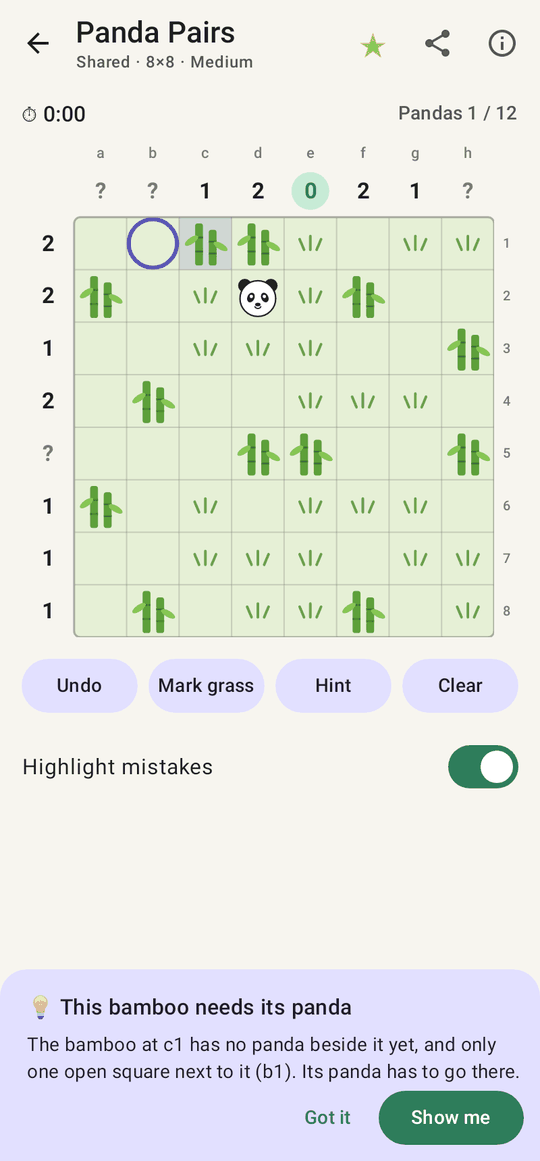
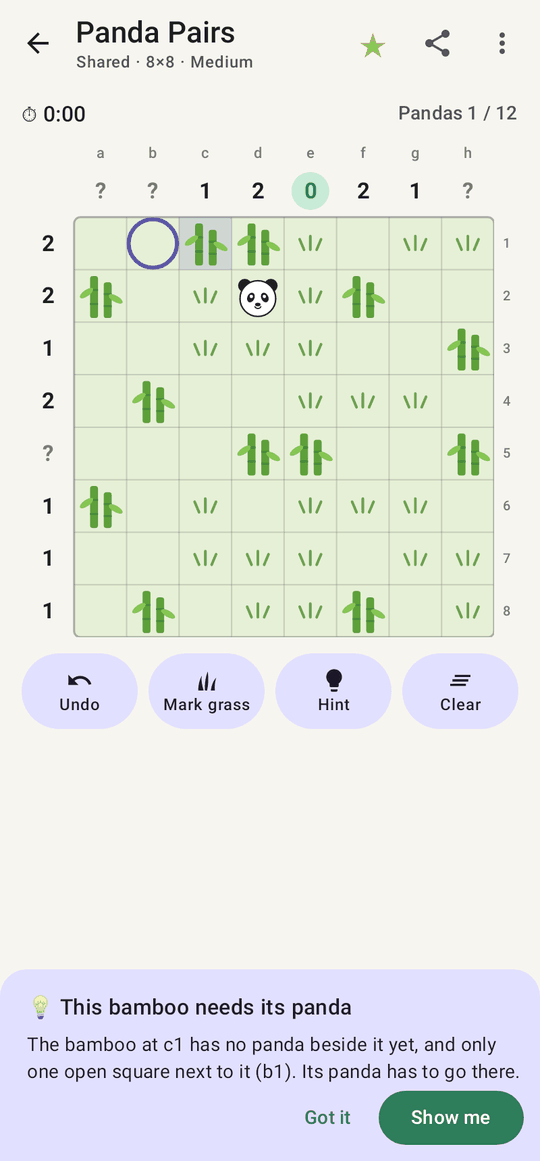
Guide for 1.13.0: unlocking levels, phone-shaped boards, puzzle menu, daily hints
Claude-Session: https://claude.ai/code/session_016Z8Mn8awnLpuJzFTS8oQNa

diff --git a/docs/using-the-app.md b/docs/using-the-app.md
@@ -4,7 +4,8 @@
 
 <img src="images/home.png" width="280" alt="Home screen"> <img src="images/home_dark.png" width="280" alt="Home screen in dark mode">
 
-Every puzzle is listed with its daily-puzzle status and your streak. Tap ☆ to make a puzzle a
+Every puzzle is listed with its daily-puzzle status, your streak and how many of its levels you've
+unlocked (see [Unlocking levels](#unlocking-levels)). Tap ☆ to make a puzzle a
 favourite (the same star is on each puzzle's menu and at the top of its play screen): favourites are listed first. The button next to the profile icon switches between a list and
 big tiles.
 
@@ -24,9 +25,20 @@ Tap a puzzle to see:
   bigger and harder at the weekend. Solve at least one puzzle of a game each day to keep its 🔥 streak.
 - **New puzzle:** choose a board **size** and a **difficulty** (Easy, Medium or Hard; Link Up also has
   Expert), then **Play**. Your choice is remembered. Harder doesn't just mean bigger: hard puzzles need
-  deeper reasoning, while easy ones can be solved one simple step at a time.
+  deeper reasoning, while easy ones can be solved one simple step at a time. Many puzzles come in
+  phone-shaped sizes too (like 7×11), which fill the screen better than square boards. Sizes are listed
+  from smallest to largest; locked ones show a 🔒 and the Play button says what opens them.
+- **Highlight mistakes:** whether this puzzle marks broken rules in red (also in the ⋮ menu while you play).
 - **History & best times:** your best time for every size and difficulty, and every puzzle you've solved.
 - **🎓** at the top opens the tutorial, and **ⓘ** shows the rules.
+
+### Unlocking levels
+
+Each puzzle starts with its smallest Easy board. Solve 3 puzzles at a level to open the next difficulty
+at that size and the next size up at that difficulty. Every solve counts, daily puzzles and puzzles from
+friends included, and levels you've already played stay open. When a solve opens something new, the
+finishing screen offers to play it straight away. Daily and shared puzzles can always be played. Rather
+skip it? **Unlock every size and difficulty** in Profile & settings opens everything.
 
 <img src="images/history.png" width="280" alt="History and best times">
 
@@ -35,8 +47,9 @@ Tap a puzzle to see:
 <img src="images/play_sudoku.png" width="280" alt="Sudoku with a hint">
 
 The timer runs while you play and pauses when you leave the app. Most puzzles mark broken rules in red
-(two equal numbers in a row, an over-full clue, a 2×2 pool…); the **Highlight mistakes** switch under the
-board turns this off if you'd rather find them yourself. It's remembered for each puzzle. **Undo** takes back your last move.
+(two equal numbers in a row, an over-full clue, a 2×2 pool…); turn **Highlight mistakes** off in the ⋮
+puzzle menu (or on the puzzle's menu) if you'd rather find them yourself. It's remembered for each puzzle.
+The ⋮ menu also has **How to play**. **Undo** takes back your last move.
 Letters along the top and numbers down the side name every square, like a chessboard: hints say things
 like "the 2 at h6".
 
@@ -53,7 +66,8 @@ Stuck? Tap **Hint**. Hints don't just reveal an answer: they explain the next lo
 squares involved, and offer **Show me** to make the move for you. If you've made a mistake, the hint
 points it out first.
 
-After you use a hint, the Hint button recharges for 10 seconds (it shows a countdown). Solves that used
+Daily puzzles have no hints: everyone's daily time is their own. After you use a hint, the Hint button
+recharges for 10 seconds (it shows a countdown). Solves that used
 hints are marked "with hints" and don't count for best times.
 
 In Minesweeper, if you open a mine, the game shows the step the numbers offered instead.
@@ -93,6 +107,7 @@ The profile button at the top right of the home screen shows your overall stats,
   - **Paper cut**: layers of cut paper with soft shadows
   - **Watercolour**: soft washes of paint on textured paper
 - **Light or dark:** System, Light or Dark (Neon and Chalkboard are always dark, Watercolour always light)
+- **Puzzles:** **Unlock every size and difficulty** skips the unlock path
 - **Home screen:** list or tiles
 
 <img src="images/themes.png" width="640" alt="Star Battle in all ten themes">

diff --git a/docs/puzzles/minesweeper.md b/docs/puzzles/minesweeper.md
@@ -16,7 +16,7 @@ Big boards scroll: drag to move around, and pinch or use − / + to zoom. On the
 
 ## Sizes and difficulty
 
-Board sizes: 8×8, 10×10, 12×12, 16×16, 16×30, 30×30, 50×50. Difficulty: Easy, Medium, Hard. The daily puzzle is small and easy early in the week and bigger and harder at the weekend.
+Board sizes: 8×8, 10×10, 12×12, 16×16, 16×30, 30×30, 50×50, 9×14, 12×20. Difficulty: Easy, Medium, Hard. The daily puzzle is small and easy early in the week and bigger and harder at the weekend.
 
 ## Learn to play
 

diff --git a/docs/puzzles/linkup.md b/docs/puzzles/linkup.md
@@ -18,7 +18,7 @@ Drag from a number to draw its line. Drag back along a line to shorten it, or ta
 
 ## Sizes and difficulty
 
-Board sizes: 5×5, 7×7, 9×9. Difficulty: Easy, Medium, Hard, Expert. The daily puzzle is small and easy early in the week and bigger and harder at the weekend.
+Board sizes: 5×5, 7×7, 9×9, 5×8, 7×11, 9×13. Difficulty: Easy, Medium, Hard, Expert. The daily puzzle is small and easy early in the week and bigger and harder at the weekend.
 
 ## Learn to play
 

diff --git a/docs/puzzles/pipes.md b/docs/puzzles/pipes.md
@@ -16,7 +16,7 @@ Tap a tile to turn it a quarter turn clockwise. Press and hold a tile to lock it
 
 ## Sizes and difficulty
 
-Board sizes: 5×5, 7×7, 9×9, 11×11. Difficulty: Easy, Medium, Hard. The daily puzzle is small and easy early in the week and bigger and harder at the weekend.
+Board sizes: 5×5, 7×7, 9×9, 11×11, 5×8, 7×11, 9×14. Difficulty: Easy, Medium, Hard. The daily puzzle is small and easy early in the week and bigger and harder at the weekend.
 
 ## Learn to play
 

diff --git a/docs/puzzles/islands.md b/docs/puzzles/islands.md
@@ -20,7 +20,7 @@ Tap a square once to shade it as sea, again to mark it as island with a dot, and
 
 ## Sizes and difficulty
 
-Board sizes: 6×6, 8×8, 10×10, 12×12. Difficulty: Easy, Medium, Hard. The daily puzzle is small and easy early in the week and bigger and harder at the weekend.
+Board sizes: 6×6, 8×8, 10×10, 12×12, 6×9, 8×12. Difficulty: Easy, Medium, Hard. The daily puzzle is small and easy early in the week and bigger and harder at the weekend.
 
 ## Learn to play
 

diff --git a/docs/puzzles/panda.md b/docs/puzzles/panda.md
@@ -16,7 +16,7 @@ Tap a square once to mark it as grass (definitely empty), tap again for a panda,
 
 ## Sizes and difficulty
 
-Board sizes: 6×6, 8×8, 10×10, 12×12. Difficulty: Easy, Medium, Hard. The daily puzzle is small and easy early in the week and bigger and harder at the weekend.
+Board sizes: 6×6, 8×8, 10×10, 12×12, 6×9, 8×12. Difficulty: Easy, Medium, Hard. The daily puzzle is small and easy early in the week and bigger and harder at the weekend.
 
 ## Learn to play
 

diff --git a/docs/puzzles/pearls.md b/docs/puzzles/pearls.md
@@ -18,7 +18,7 @@ Drag across the squares to draw the loop; drag back to take back the last step, 
 
 ## Sizes and difficulty
 
-Board sizes: 6×6, 8×8, 10×10, 12×12. Difficulty: Easy, Medium, Hard. The daily puzzle is small and easy early in the week and bigger and harder at the weekend.
+Board sizes: 6×6, 8×8, 10×10, 12×12, 6×9, 8×12. Difficulty: Easy, Medium, Hard. The daily puzzle is small and easy early in the week and bigger and harder at the weekend.
 
 ## Learn to play
 

diff --git a/docs/puzzles/trail.md b/docs/puzzles/trail.md
@@ -14,7 +14,7 @@ Drag from 1 to draw. Drag back along the path to undo steps, or touch any square
 
 ## Sizes and difficulty
 
-Board sizes: 5×5, 6×6, 7×7, 8×8. Difficulty: Easy, Medium, Hard. The daily puzzle is small and easy early in the week and bigger and harder at the weekend.
+Board sizes: 5×5, 6×6, 7×7, 8×8, 5×7, 6×9. Difficulty: Easy, Medium, Hard. The daily puzzle is small and easy early in the week and bigger and harder at the weekend.
 
 ## Learn to play
 

diff --git a/docs/puzzles/lightup.md b/docs/puzzles/lightup.md
@@ -18,7 +18,7 @@ Tap a square once to mark it as empty (a dot), again for a bulb, and once more t
 
 ## Sizes and difficulty
 
-Board sizes: 7×7, 10×10, 12×12. Difficulty: Easy, Medium, Hard. The daily puzzle is small and easy early in the week and bigger and harder at the weekend.
+Board sizes: 7×7, 10×10, 12×12, 7×10, 10×14. Difficulty: Easy, Medium, Hard. The daily puzzle is small and easy early in the week and bigger and harder at the weekend.
 
 ## Learn to play
 

diff --git a/docs/puzzles/bridges.md b/docs/puzzles/bridges.md
@@ -16,7 +16,7 @@ Drag from one island toward a neighbouring island to add a bridge; do it again f
 
 ## Sizes and difficulty
 
-Board sizes: 7×7, 9×9, 12×12. Difficulty: Easy, Medium, Hard. The daily puzzle is small and easy early in the week and bigger and harder at the weekend.
+Board sizes: 7×7, 9×9, 12×12, 7×10, 9×13. Difficulty: Easy, Medium, Hard. The daily puzzle is small and easy early in the week and bigger and harder at the weekend.
 
 ## Learn to play
 

diff --git a/docs/puzzles/rectangles.md b/docs/puzzles/rectangles.md
@@ -16,7 +16,7 @@ Drag from one corner to the opposite corner to draw a rectangle. Tap a rectangle
 
 ## Sizes and difficulty
 
-Board sizes: 6×6, 9×9, 12×12. Difficulty: Easy, Medium, Hard. The daily puzzle is small and easy early in the week and bigger and harder at the weekend.
+Board sizes: 6×6, 9×9, 12×12, 6×9, 9×13. Difficulty: Easy, Medium, Hard. The daily puzzle is small and easy early in the week and bigger and harder at the weekend.
 
 ## Learn to play
 

diff --git a/docs/puzzles/slitherlink.md b/docs/puzzles/slitherlink.md
@@ -18,7 +18,7 @@ Tap between two dots to draw a line, tap again to cross it out (definitely not u
 
 ## Sizes and difficulty
 
-Board sizes: 5×5, 7×7, 10×10. Difficulty: Easy, Medium, Hard. The daily puzzle is small and easy early in the week and bigger and harder at the weekend.
+Board sizes: 5×5, 7×7, 10×10, 5×7, 7×10. Difficulty: Easy, Medium, Hard. The daily puzzle is small and easy early in the week and bigger and harder at the weekend.
 
 ## Learn to play
 
